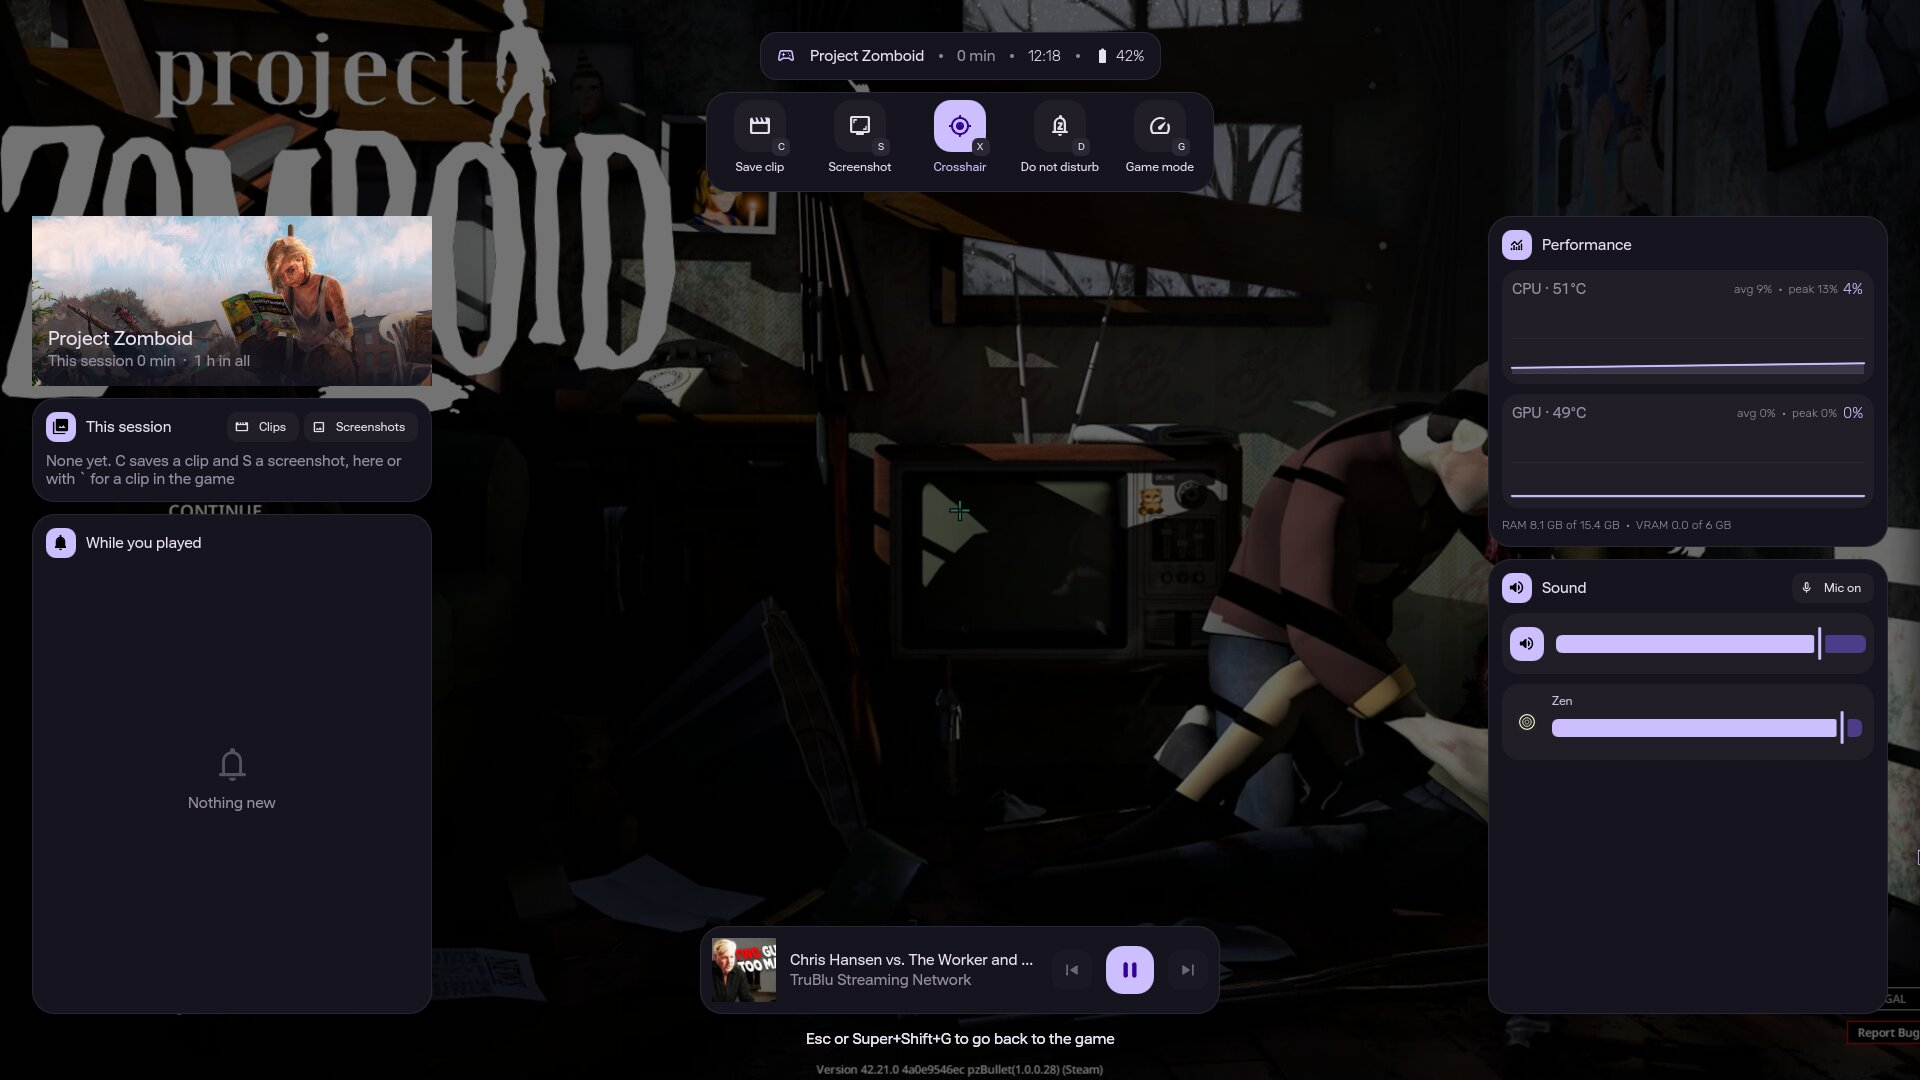
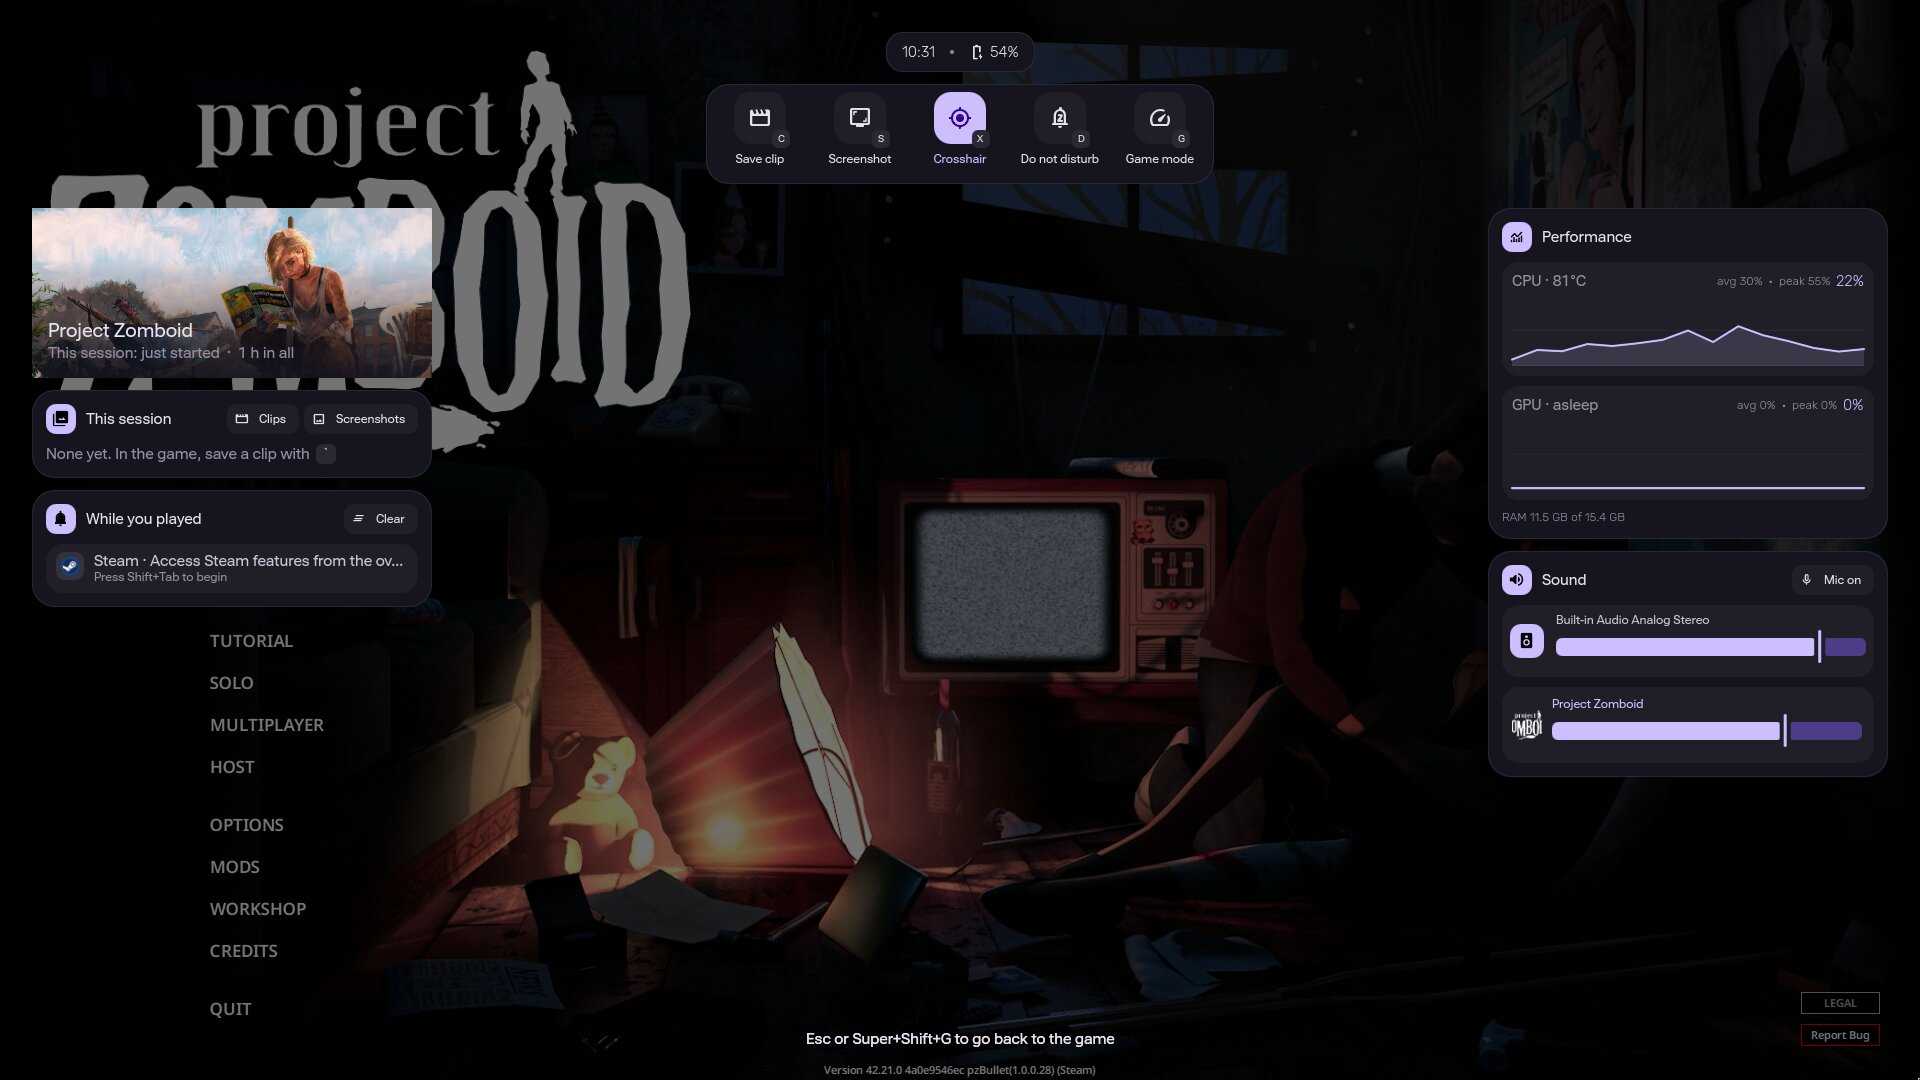
README: new in-game overlay screenshot

diff --git a/README.md b/README.md
@@ -60,7 +60,7 @@ gameplay clips and live settings. Change the wallpaper and everything follows.
 
 <br>
 
-<img src="assets/readme/overlay.jpg" alt="The in-game overlay over Project Zomboid: quick actions, the game's banner and session, performance graphs, each app's volume and what's playing">
+<img src="assets/readme/overlay.jpg" alt="The in-game overlay over Project Zomboid's menu: the clock and quick actions, the game's banner and session, what came in while playing, performance graphs for the session and each app's volume with the game first">
 
 <sub><b>In-game overlay</b> · <code>Super+Shift+G</code> in a game: clips, screenshots, performance and sound without leaving it</sub>
 
